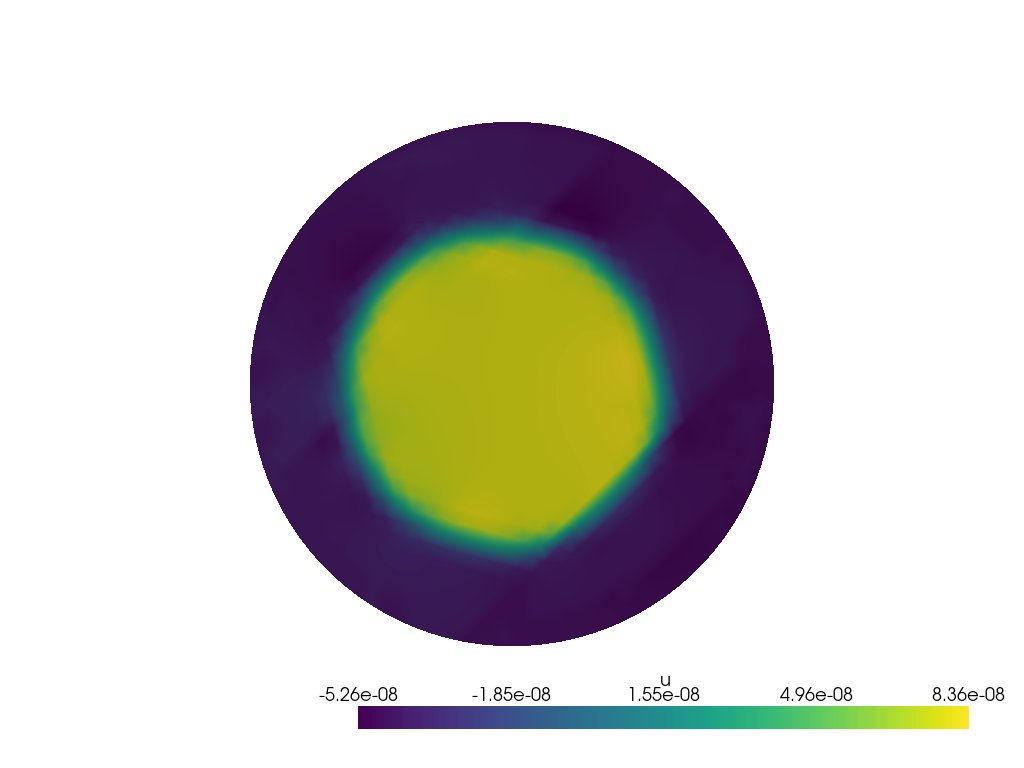
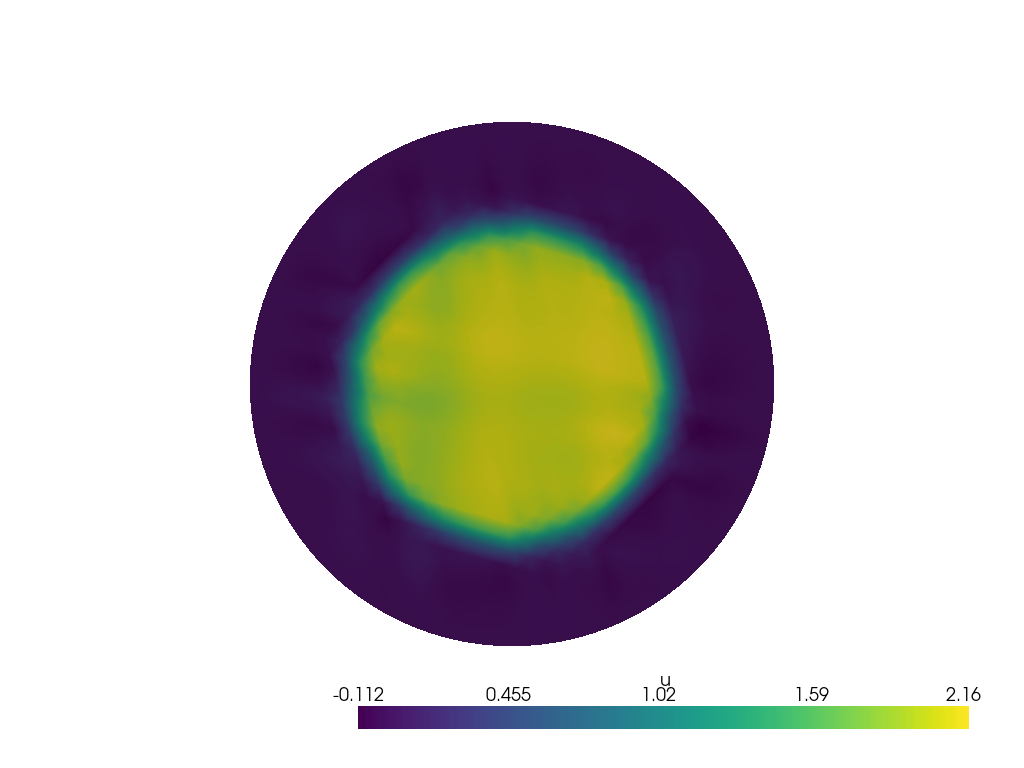
Add files via upload

diff --git a/B_loop.py b/B_loop.py
@@ -33,14 +33,14 @@ r.interpolate(lambda x: np.sqrt(x[0]**2 + x[1]**2))
 def Jx(x):
     y = x[1, :]
     x = x[0, :]
-    jx = -y / np.sqrt(x**2 + y**2)
+    jx = -y / (np.sqrt(x**2 + y**2) + 1e-9)
     jx[np.abs(np.sqrt(x**2+y**2) - 6) > 0.5] = 0
     return jx
 
 def Jy(x):
     y = x[1, :]
     x = x[0, :]
-    jy = x / np.sqrt(x**2 + y**2)
+    jy = x / (np.sqrt(x**2 + y**2) + 1e-9)
     jy[np.abs(np.sqrt(x**2+y**2) - 6) > 0.5] = 0
     return jy
 
@@ -66,7 +66,8 @@ plot_scalar_function(domain, jx, Function_space, 'jx.png')
 plot_scalar_function(domain, jy, Function_space, 'jy.png')
 plot_vector_function(domain, J, Vector_space, 'j.png')
 
-F1 = dot(grad(B_z1), grad(v1))/12*10e7*dx(2)-jx*v1*dx(2)
+#F1 = dot(grad(B_z1), grad(v1))/12*10e7*dx(2)-jx*v1*dx(2)
+F1 = B_z1.dx(1)*v1.dx(1)*dx(2)-jx*v1.dx(1)*dx(2)
 
 a, L = lhs(F1), rhs(F1)
 problem = LinearProblem(a, L, bcs=[bc])
@@ -76,7 +77,8 @@ sol1 = problem.solve()
 
 plot_scalar_function(domain, sol1, Function_space, 'sol1.png')
 
-F2 = dot(grad(B_z2), grad(v2))/12*10e7*dx-jy*v2*dx
+#F2 = dot(grad(B_z2), grad(v2))/12*10e7*dx-jy*v2*dx
+F2= -B_z2.dx(0)*v2.dx(0)*dx(2)-jy*v2.dx(0)*dx(2)
 
 a, L = lhs(F2), rhs(F2)
 problem = LinearProblem(a, L, bcs=[bc])
@@ -90,8 +92,17 @@ plot_scalar_function(domain, sol2, Function_space, 'sol2.png')
 #u2 = dot(as_vector([1, 0]), grad(solnUS))
 
 B = Function(Function_space)
-B.interpolate(Expression(sol2.dx(0) - sol1.dx(1), Function_space.element.interpolation_points()))
+#B.interpolate(Expression(sol2.dx(0) - sol1.dx(1), Function_space.element.interpolation_points()))
+B.x.array[:] = sol1.x.array + sol2.x.array
 
 plot_scalar_function(domain, B, Function_space, 'sol.png')
 print(f_di(B, np.array([0,0,0]), domain))
-print(f_di(B, np.array([3,3,0]), domain))
+print(f_di(B, np.array([1,0,0]), domain))
+print(f_di(B, np.array([0,2,0]), domain))
+print(f_di(B, np.array([-3,0,0]), domain))
+print(f_di(B, np.array([0,-4,0]), domain))
+print(f_di(B, np.array([5,0,0]), domain))
+
+new_j = Function(Vector_space)
+new_j.interpolate(Expression(as_vector([B.dx(1), -B.dx(0)]), Vector_space.element.interpolation_points()))
+plot_vector_function(domain, new_j, Vector_space, 'new_j.png')

diff --git a/prova.py b/prova.py
@@ -1,0 +1,47 @@
+from dolfinx import default_scalar_type
+from dolfinx.fem import (Constant, dirichletbc, Function, FunctionSpace, assemble_scalar,
+                         form, locate_dofs_geometrical, locate_dofs_topological)
+from dolfinx.fem.petsc import LinearProblem
+from dolfinx.io import XDMFFile, gmshio
+from dolfinx.mesh import create_unit_square, locate_entities
+from dolfinx.plot import vtk_mesh
+
+from ufl import (SpatialCoordinate, TestFunction, TrialFunction,
+                 dx, grad, inner)
+
+from mpi4py import MPI
+
+import meshio
+import gmsh
+import numpy as np
+import pyvista
+
+pyvista.start_xvfb()
+
+mesh = create_unit_square(MPI.COMM_WORLD, 10, 10)
+Q = FunctionSpace(mesh, ("DG", 0))
+
+def Omega_0(x):
+    return x[1] <= 0.5
+
+
+def Omega_1(x):
+    return x[1] >= 0.5
+
+kappa = Function(Q)
+cells_0 = locate_entities(mesh, mesh.topology.dim, Omega_0)
+cells_1 = locate_entities(mesh, mesh.topology.dim, Omega_1)
+
+kappa.x.array[cells_0] = np.full_like(cells_0, 1, dtype=default_scalar_type)
+kappa.x.array[cells_1] = np.full_like(cells_1, 0.1, dtype=default_scalar_type)
+
+V = FunctionSpace(mesh, ("Lagrange", 1))
+u, v = TrialFunction(V), TestFunction(V)
+a = inner(kappa * grad(u), grad(v)) * dx
+x = SpatialCoordinate(mesh)
+L = Constant(mesh, default_scalar_type(1)) * v * dx
+dofs = locate_dofs_geometrical(V, lambda x: np.isclose(x[0], 0))
+bcs = [dirichletbc(default_scalar_type(1), dofs, V)]
+
+problem = LinearProblem(a, L, bcs=bcs, petsc_options={"ksp_type": "preonly", "pc_type": "lu"})
+uh = problem.solve()

diff --git a/num_integration.py b/num_integration.py
@@ -1,0 +1,15 @@
+import numpy as np
+import matplotlib.pyplot as plt
+
+def f(x):
+    dt = 2*np.pi / 1000
+    I = 0
+    for i in range(1000):
+        t = i*dt
+        I += dt * (1 - x*np.cos(t)/6) * (1 + 36/x**2 - 12*np.cos(t)/x)**(-3/2)
+    return 4e-7*36*I / x**3
+
+x = np.linspace(0.1, 5, num=1000)
+y = np.array([f(u) for u in x])
+plt.plot(x, y)
+plt.show()
